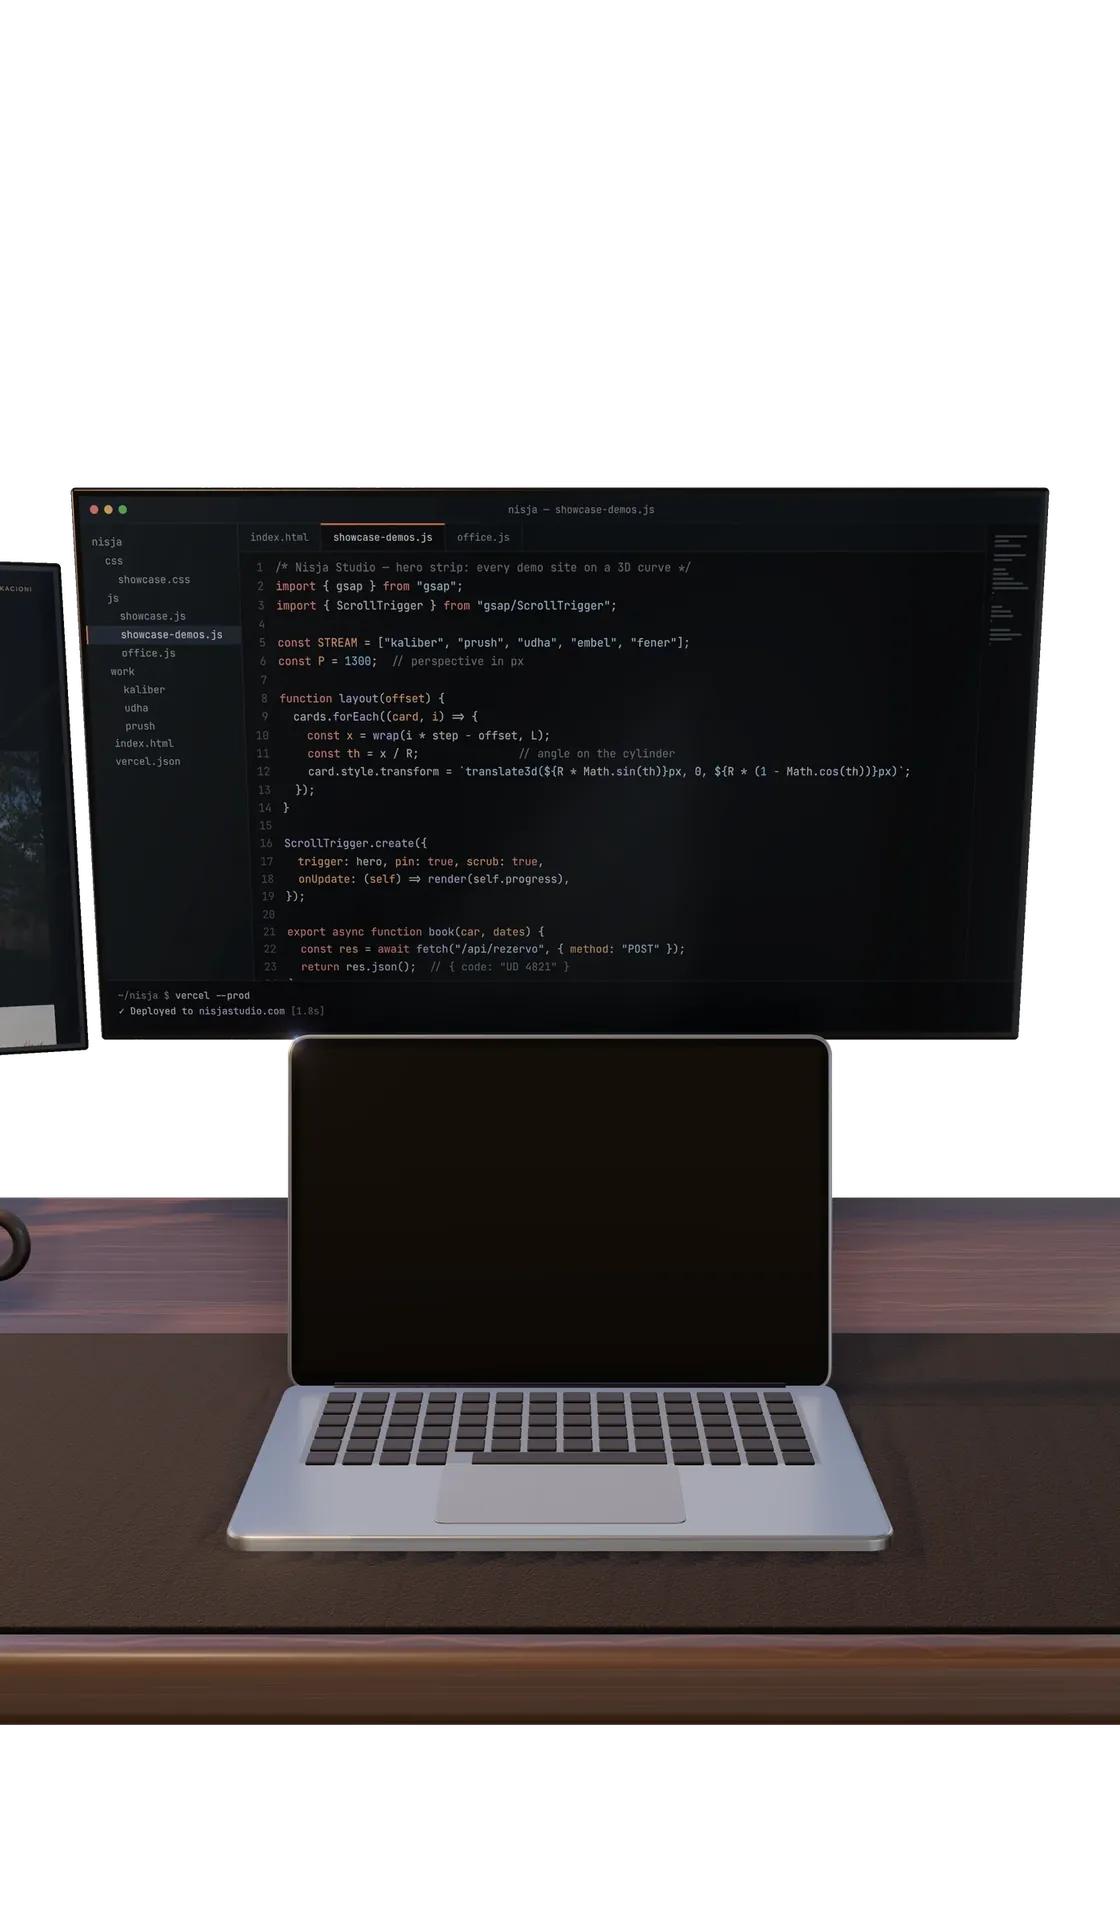
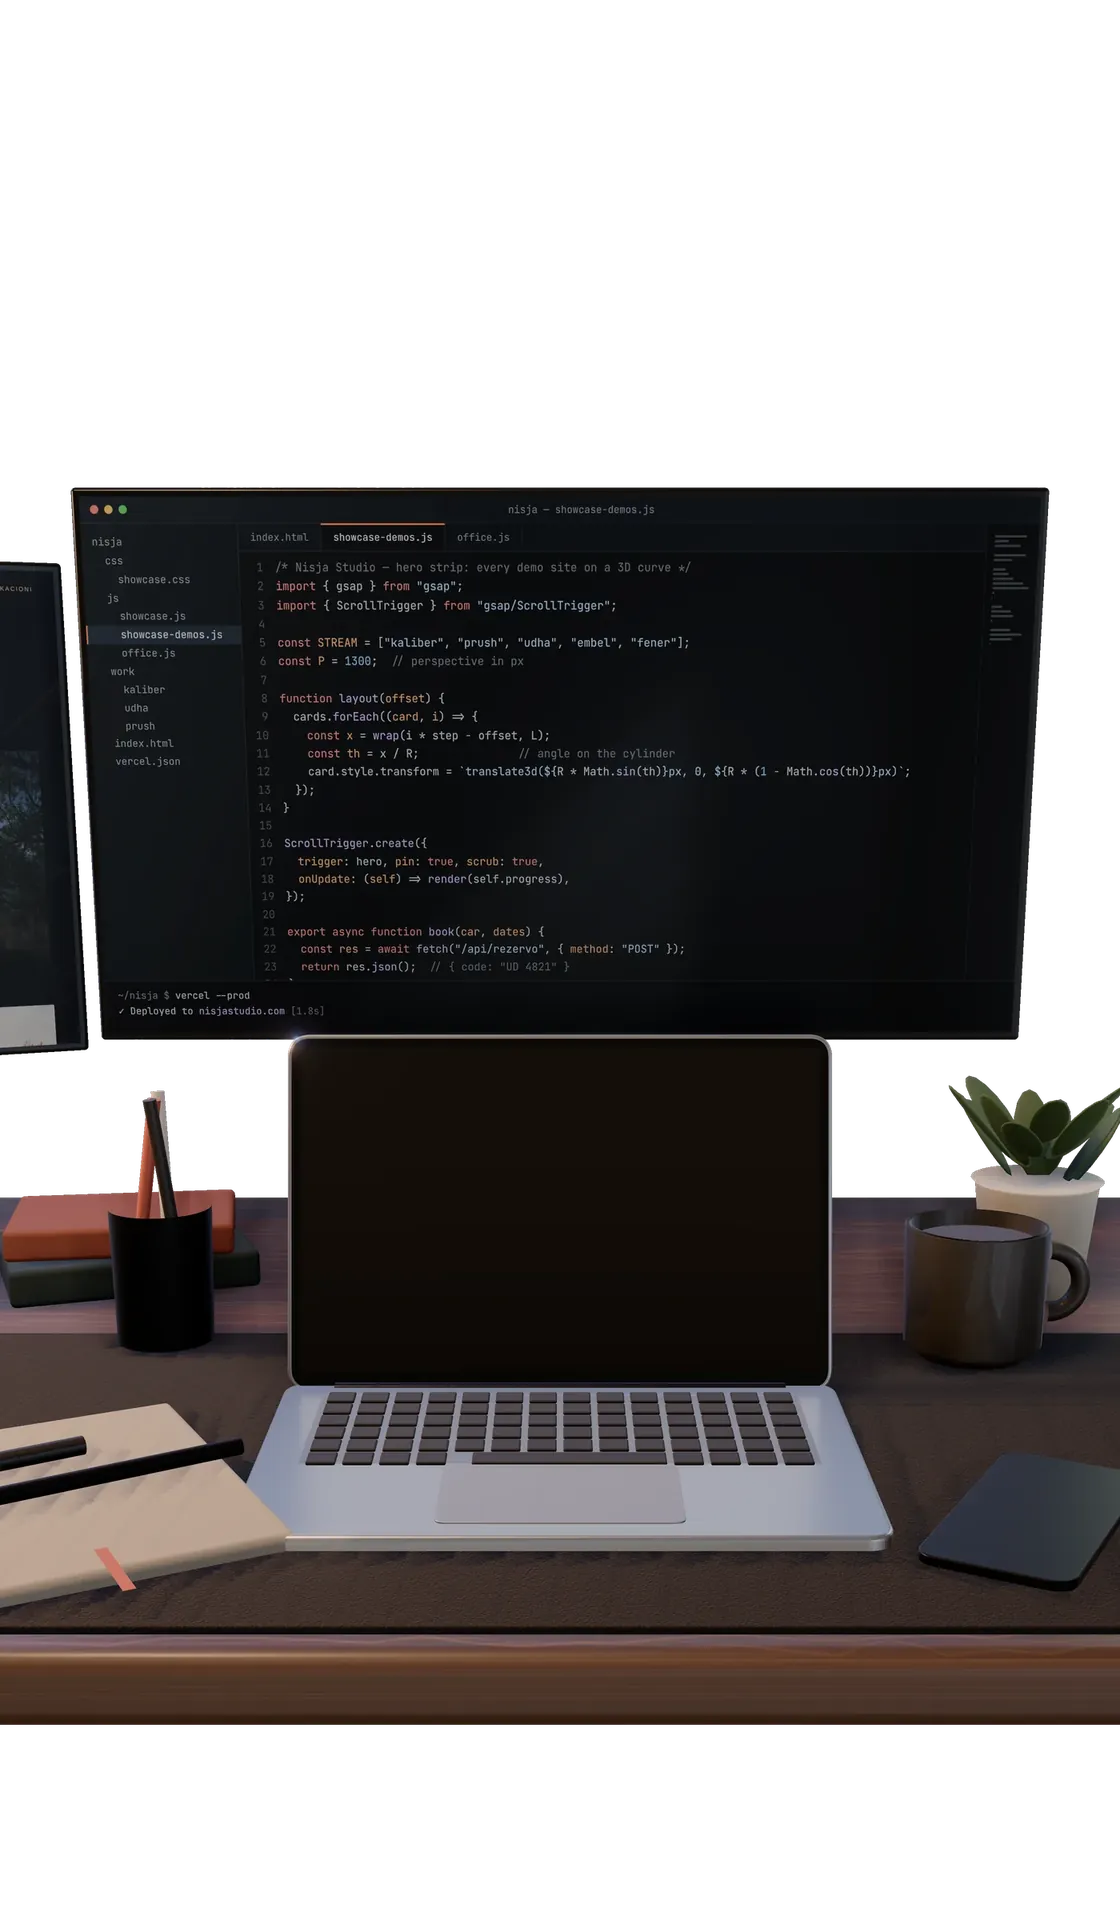
Phone desk intro: notebook with pen, phone, mug, pen cup, plant and books around the laptop
Claude-Session: https://claude.ai/code/session_01WXEzTtESFWsyUaJ2D8Uqiu

Changed region(s): [[0.0, 0.5625, 0.25, 0.8438], [0.7812, 0.5625, 1.0, 0.7188], [0.8125, 0.75, 1.0, 0.8438]]

diff --git a/js-src/desk-render.src.js b/js-src/desk-render.src.js
@@ -326,6 +326,44 @@ async function build() {
     N(put(m, -0.62, TY + 0.016 + i * 0.03, -0.66));
   });
 
+  /* phone framing: only the laptop and the code monitor are in view, so the desk things are brought in
+     close around the laptop (none of them in front of its screen) */
+  if (framing === "port") {
+    ph.position.set(0.232, TY, -0.045); ph.rotation.y = -0.5;
+    nb.material = new THREE.MeshStandardMaterial({ color: 0xa79e8f, roughness: 0.95 });   // cream pages, kept below the lamp's glare
+    nb.position.set(-0.238, TY + 0.006, -0.07); nb.rotation.y = 0.48;
+    cover.position.set(-0.238, TY + 0.0005, -0.07); cover.rotation.y = 0.48;
+    // a ribbon bookmark and a pen lying across the open notebook
+    var rib = new THREE.Mesh(new THREE.PlaneGeometry(0.006, 0.05), new THREE.MeshStandardMaterial({ color: 0xb2452c, roughness: 0.7 }));
+    rib.rotation.set(-Math.PI / 2, 0, 0.48); N(put(rib, -0.2, TY + 0.0125, 0.03));
+    pen.rotation.set(Math.PI / 2, 0, 1.0); N(put(pen, -0.225, TY + 0.017, -0.075));
+    var cap = new THREE.Mesh(new THREE.CylinderGeometry(0.005, 0.005, 0.045, 16), new THREE.MeshStandardMaterial({ color: 0x14110e, roughness: 0.35 }));
+    cap.rotation.set(Math.PI / 2, 0, 1.0); N(put(cap, -0.225 - Math.sin(1.0) * 0.05, TY + 0.017, -0.075 - Math.cos(1.0) * 0.05));
+    cup.position.set(0.255, TY, -0.31); cof.position.set(0.255, TY + 0.076, -0.31); handle.position.set(0.3, TY + 0.05, -0.31);
+    // pen cup with a few pens, back left
+    var pc = new THREE.Mesh(new THREE.CylinderGeometry(0.032, 0.03, 0.09, 40, 1, true), M.steel); pc.castShadow = true; N(put(pc, -0.25, TY + 0.045, -0.34));
+    var pcb = new THREE.Mesh(new THREE.CircleGeometry(0.03, 32), M.steel); pcb.rotation.x = -Math.PI / 2; N(put(pcb, -0.25, TY + 0.002, -0.34));
+    [[0.008, 0.006, 0.12, 0x1b1712], [-0.01, 0.004, -0.15, 0xb2452c], [0.002, -0.011, 0.05, 0xd8cfc0]].forEach(function (p) {
+      var pn = new THREE.Mesh(new THREE.CylinderGeometry(0.0042, 0.0042, 0.15, 12), new THREE.MeshStandardMaterial({ color: p[3], roughness: 0.4 }));
+      pn.castShadow = true; pn.rotation.set(p[1] * 9, 0, p[2]); N(put(pn, -0.25 + p[0], TY + 0.085, -0.34 + p[1]));
+    });
+    // a small plant in a pale ceramic pot, back right
+    var potG = new THREE.LatheGeometry([[0, 0], [0.034, 0], [0.042, 0.075], [0.045, 0.078], [0, 0.078]].map(function (p) { return new THREE.Vector2(p[0], p[1]); }), 40);
+    var pot = new THREE.Mesh(potG, new THREE.MeshStandardMaterial({ color: 0xd9d1c4, roughness: 0.55 })); pot.castShadow = true; N(put(pot, 0.33, TY, -0.47));
+    var leafM = new THREE.MeshStandardMaterial({ color: 0x3f5a35, roughness: 0.6, side: THREE.DoubleSide }), rl = rand(7);
+    for (var li = 0; li < 14; li++) {
+      var lf = new THREE.Mesh(new THREE.SphereGeometry(0.03, 16, 10), leafM); lf.scale.set(0.42, 0.08, 1.15); lf.castShadow = true;
+      var ang = li / 14 * Math.PI * 2 + rl() * 0.4, tilt = 0.5 + rl() * 0.5, len = 0.03 + rl() * 0.02;
+      lf.position.set(0.33 + Math.cos(ang) * len, TY + 0.09 + rl() * 0.05, -0.47 + Math.sin(ang) * len);
+      lf.rotation.set(0, -ang + Math.PI / 2, 0); lf.rotateX(-tilt); N(lf); scene.add(lf);
+    }
+    // two books stacked behind the notebook
+    [[0.17, 0.026, 0.12, 0x2e3b36], [0.155, 0.022, 0.11, 0x9c4a2f]].forEach(function (bk, i) {
+      var m = rbox(bk[0], bk[1], bk[2], new THREE.MeshStandardMaterial({ color: bk[3], roughness: 0.8 }), 0.004); m.rotation.y = 0.35 - i * 0.2;
+      N(put(m, -0.31, TY + 0.013 + i * 0.025, -0.5));
+    });
+  }
+
   /* light */
   var key = new THREE.SpotLight(0xffc995, 4.2, 4, 0.75, 0.8, 1.4); key.position.set(-0.5, 2.3, 0.3); key.target.position.set(0, TY, -0.25);
   key.castShadow = true; key.shadow.mapSize.set(2048, 2048); key.shadow.radius = 10; key.shadow.blurSamples = 20; key.shadow.bias = -0.0002;
